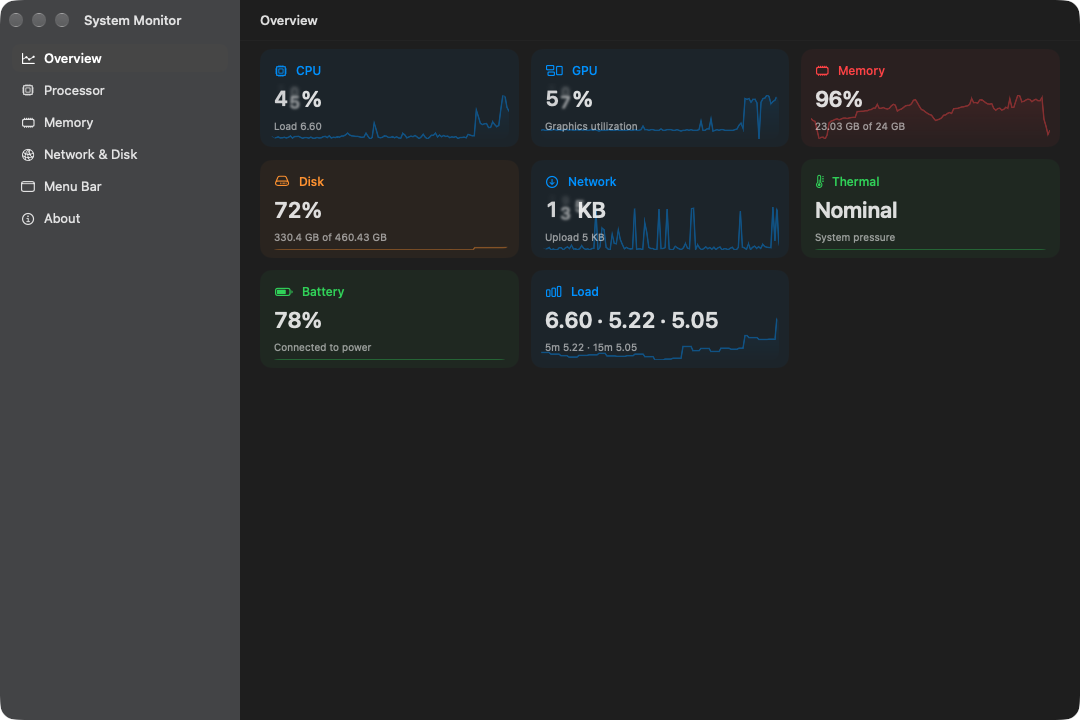
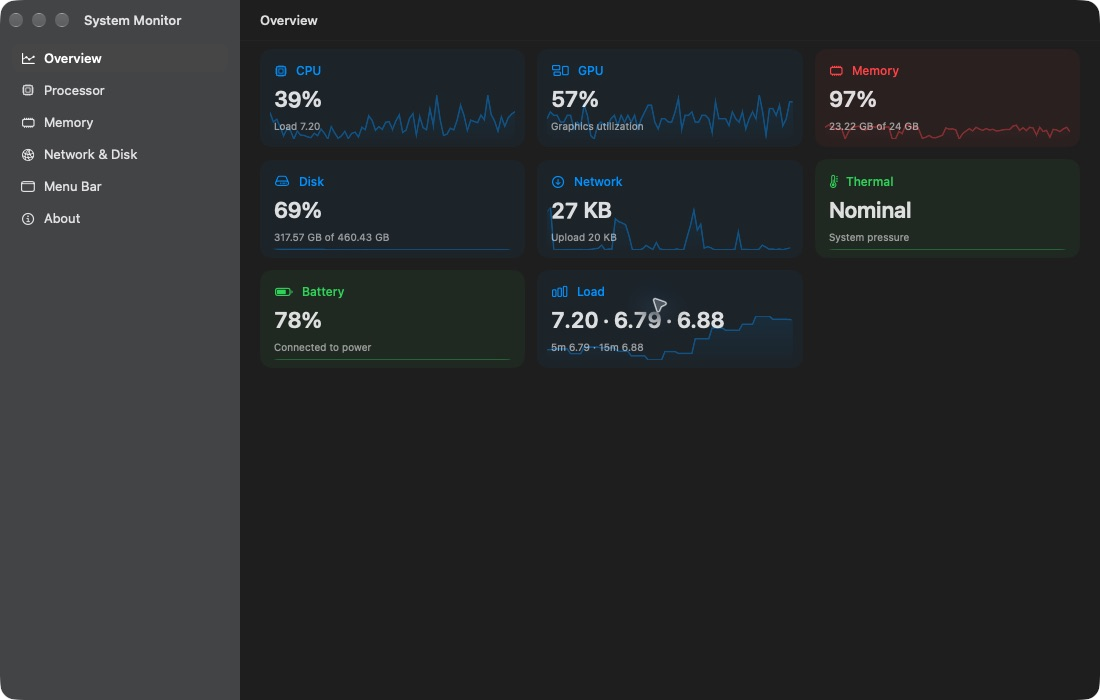
Refresh release documentation
Replace the NetToys settings image with the live scanner, normalize the four product captures, and lead the gallery with Cloud Sync. Prepare the changelog and ignored artifact directory for 1.8.0.

diff --git a/spec/main-request-list.md b/spec/main-request-list.md
@@ -81,7 +81,7 @@ the latest normal signed build.
 | Done | Replace the bolt with a flexed-arm app icon. | `0cdbdae` draws one filled flexed-arm silhouette (fist with three knuckles, forearm, bicep, upper arm) into the Icon Composer layers, the echo layer at the 52px offset, `docs/appicon.svg`, and the Raycast extension icon; the menu bar template uses an outline adapted from Lucide's biceps-flexed glyph (ISC, credited in the README) because the filled shape turned into a blob at 16pt. The Xcode build validated the icon set and the installed `0cdbdae` build carries it. | None. |
 | Done | Consolidate troubleshooting knowledge and always verify the latest normal build. | `spec/troubleshoot/troubleshoot.md` is the only index and routes current-build, UI, verification, and shared-worktree rules. |
 | Done | Preserve unexplained changes from other tasks instead of reverting whole files. | `spec/troubleshoot/shared-worktree.md` now requires inspecting history, identifying and asking the owner when possible, and preserving unknown work without explicit approval. |
-| Done | Refresh the public READMEs and screenshots after the current UI work. | `README.md` now uses fresh live captures of the ten-tool launcher, System Monitor, Input Devices, and the privacy-safe NetToys settings card. `raycast/README.md` documents the current launcher plus ten tool commands, local setup, and development checks. Every published capture was inspected at original size; the NetToys image excludes local addresses, hostnames, and Wi-Fi data. |
+| Done | Refresh the public READMEs and screenshots after the current UI work. | `README.md` now leads with a live Cloud Sync transfer and uses an equal 2 × 2 gallery of 1,100 × 700 live captures for Input Devices, the actual NetToys IP Scanner, System Monitor, and Cloud Sync. Every published capture was inspected at original size; the NetToys image uses only localhost and excludes private addresses, hostnames, and Wi-Fi data. `raycast/README.md` documents the current launcher plus ten tool commands, local setup, and development checks. |
 | Done | Update README screenshots and publish the 1.7.0 checkpoint. | `README.md` uses the refreshed launcher and Text Extractor screenshots; annotated tag `v1.7.0` is pushed. Later work belongs to the pending next release. |
 | Done | Prevent unsigned UI-runner Gatekeeper dialogs and correct the claim that the runner was killed. | Verification rules prohibit launching unsigned UI runners and require distinguishing a runner bootstrap failure from a killed process or product failure. |
 

diff --git a/README.md b/README.md
@@ -53,19 +53,29 @@
 ## Designed for the Mac
 
 <p align="center">
-  <img src="docs/screenshots/system-monitor.png" width="1080" alt="System Monitor overview with live CPU, GPU, memory, disk, network, thermal, battery, and load graphs"><br>
-  <sub><b>System Monitor</b> · CPU, GPU, memory, disk, network, thermal, battery, and load at a glance</sub>
+  <a href="docs/screenshots/cloud-sync.png"><img src="docs/screenshots/cloud-sync.png" width="1100" alt="Cloud Sync showing a completed local sync transfer between Product Assets and Release Mirror"></a><br>
+  <sub><b>Cloud Sync</b> · plan and run copy, move, mirror, and two-way transfers</sub>
 </p>
 
 <table>
   <tr>
     <td width="50%" valign="top">
-      <img src="docs/screenshots/input-devices.png" width="100%" alt="Input Devices scrolling controls with separate mouse and trackpad profiles"><br>
+      <a href="docs/screenshots/input-devices.png"><img src="docs/screenshots/input-devices.png" width="100%" alt="Input Devices scrolling controls with separate mouse and trackpad profiles"></a><br>
       <sub><b>Input Devices</b> · separate mouse and trackpad profiles under one system-wide switch</sub>
     </td>
     <td width="50%" valign="top">
-      <img src="docs/screenshots/nettoys-settings.png" width="100%" alt="NetToys settings showing its enable switch and network permission status"><br>
+      <a href="docs/screenshots/nettoys.png"><img src="docs/screenshots/nettoys.png" width="100%" alt="NetToys IP Scanner showing a completed privacy-safe localhost scan"></a><br>
       <sub><b>NetToys</b> · one-click disable and clear permission state</sub>
+    </td>
+  </tr>
+  <tr>
+    <td width="50%" valign="top">
+      <a href="docs/screenshots/system-monitor.png"><img src="docs/screenshots/system-monitor.png" width="100%" alt="System Monitor overview with live CPU, GPU, memory, disk, network, thermal, battery, and load graphs"></a><br>
+      <sub><b>System Monitor</b> · live health and performance graphs without a persistent heavy dashboard</sub>
+    </td>
+    <td width="50%" valign="top">
+      <a href="docs/screenshots/cloud-sync.png"><img src="docs/screenshots/cloud-sync.png" width="100%" alt="Cloud Sync showing a completed local sync transfer between Product Assets and Release Mirror"></a><br>
+      <sub><b>Cloud Sync</b> · durable transfer progress with focused controls and activity history</sub>
     </td>
   </tr>
 </table>

diff --git a/CHANGELOG.md b/CHANGELOG.md
@@ -4,6 +4,8 @@ Notable changes are documented here. The project follows semantic versioning aft
 
 ## [Unreleased]
 
+## [1.8.0] - 2026-09-21
+
 ### Added
 
 - Added Dev Sync to Cloud Sync: Dev One-Way and Dev Bidirectional pairs
@@ -33,6 +35,8 @@ Notable changes are documented here. The project follows semantic versioning aft
 
 ### Changed
 
+- Redesigned the combined menu-bar popover around compact tabs, focused quick
+  actions, and on-demand tool pages instead of embedding full settings screens.
 - Replaced the custom Ruler with the behavior and settings from pinned FreeRuler commit `d38ca4f673f16c51485940e63eeee68babfbfeed` under its MIT license.
 - Made Ruler Settings and Defaults independent native windows. Added Border
   Opacity, set its default to 25%, and disabled new-ruler shadows.
@@ -54,6 +58,8 @@ Notable changes are documented here. The project follows semantic versioning aft
 
 ### Fixed
 
+- Made NetToys request Location access only from its explicit permission
+  action, and made switching between NetToys and System Monitor responsive.
 - Fixed Text Extractor region capture on multiple displays, blank selections,
   cancellation, permission recovery, clipboard content, and completion cues.
 - Matched native titlebar chrome, traffic-light alignment, focus behavior, and
@@ -72,8 +78,10 @@ Notable changes are documented here. The project follows semantic versioning aft
 
 ### Performance
 
-- Reduced Text Extractor recognition latency and avoided screenshot data on the
-  clipboard.
+- Prewarmed Text Extractor recognition, reduced selection-overlay latency, and
+  avoided screenshot data on the clipboard.
+- Deferred and cancelled heavyweight NetToys and System Monitor content when
+  their windows are not active.
 - Changed System Monitor to one scheduler with safe update intervals for each
   metric. Detailed sampling runs only while its window is open.
 - Stopped unused Cloud Sync daemons, polls, tasks, and volume observers when no
